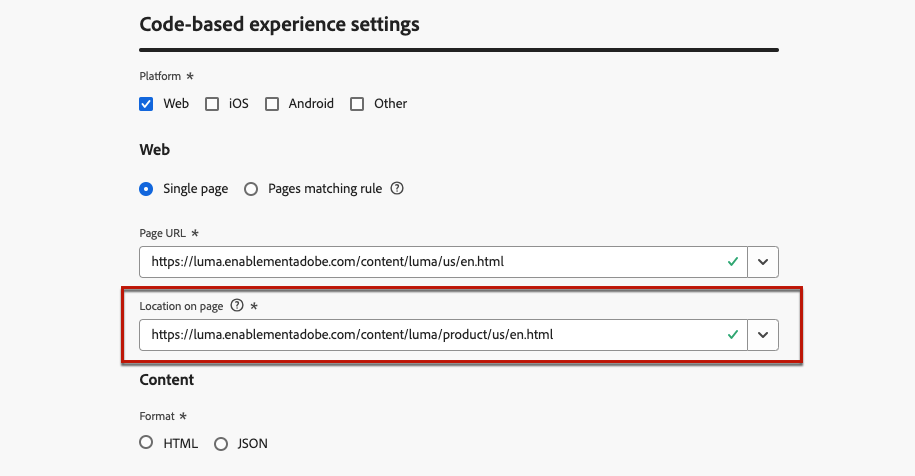
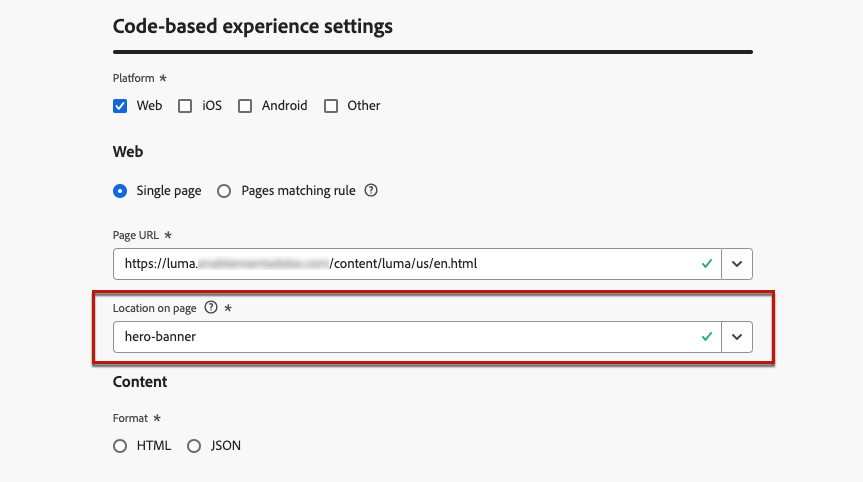
CBE config updates (#1750)
* CBE config PM feeback

DOCAC-11254

* Update code-based-implementation-samples.md

* Update code-based-configuration.md

diff --git a/help/using/code-based/code-based-implementation-samples.md b/help/using/code-based/code-based-implementation-samples.md
@@ -23,7 +23,7 @@ Code-based experience supports any type of customer implementation. On this page
 
 If you have a client-side implementation, you can use one of the AEP client SDKs: AEP Web SDK or AEP Mobile SDK.
 
-* The steps [below](#client-side-how) describe the process of fetching the content published on the edge by the code-based experience campaigns in a sample **Web SDK** implementation and displaying the personalized content.
+* The steps [below](#client-side-how) describe the process of fetching the content published on the edge by the code-based experience journeys and campaigns in a sample **Web SDK** implementation and displaying the personalized content.
 
 * The steps to implement code-based channel using **Mobile SDK** are described in [this tutorial](https://developer.adobe.com/client-sdks/edge/adobe-journey-optimizer/code-based/tutorial/){target="_blank"}.
 
@@ -48,7 +48,7 @@ If you have a client-side implementation, you can use one of the AEP client SDKs
 
 1. Code-based experience items should be manually applied by the implementation code (using the [`applyPersonalization`](https://github.com/adobe/alloy-samples/blob/ac83b6927d007dc456caad2c6ce0b324c99c26c9/ajo/personalization-client-side/public/script.js){target="_blank"} method) to update the DOM based on the decision.
 
-1. For code-based experience campaigns, display events must manually be sent to indicate when the content has been displayed. This is done via the `sendEvent` command.
+1. For code-based experience journeys and campaigns, display events must manually be sent to indicate when the content has been displayed. This is done via the `sendEvent` command.
 
     ```javascript
     function sendDisplayEvent(decision) {
@@ -74,7 +74,7 @@ If you have a client-side implementation, you can use one of the AEP client SDKs
     }
     ```
 
-1. For code-based experience campaigns, interaction events must manually be sent to indicate when a user has interacted with the content. This is done via the `sendEvent` command.
+1. For code-based experience journeys and campaigns, interaction events must manually be sent to indicate when a user has interacted with the content. This is done via the `sendEvent` command.
 
     ```javascript
     function sendInteractEvent(label, proposition) {
@@ -134,7 +134,7 @@ Requests to Adobe Experience Platform API are required to get propositions and s
 
 If you have a server-side implementation, you can use one the AEP Edge Network API.
 
-The steps below describe the process of fetching the content published on the edge by the code-based experience campaigns in a sample Edge Network API implementation for a webpage and displaying the personalized content.
+The steps below describe the process of fetching the content published on the edge by the code-based experience journeys and campaigns in a sample Edge Network API implementation for a webpage and displaying the personalized content.
 
 ### How it works
 
@@ -220,8 +220,9 @@ The steps below describe the process of fetching the content published on the ed
       ).then((res) => res.json());
       ```
 
-1. The JSON experience from the code based experience campaign is read from the response and used when producing the HTML response.
-1. For code-based experience campaigns, display events must manually be sent in the implementation to indicate when the campaign content has been displayed. In this example the notification is sent server-side during the request lifecycle.
+1. The JSON experience from the code-based experience journeys and campaign is read from the response and used when producing the HTML response.
+
+1. For code-based experience journeys and campaigns, display events must manually be sent in the implementation to indicate when the journey or campaign content has been displayed. In this example, the notification is sent server-side during the request lifecycle.
 
     ```javascript
     function sendDisplayEvent(aepEdgeClient, req, propositions, cookieEntries) {

diff --git a/help/using/code-based/code-based-configuration.md b/help/using/code-based/code-based-configuration.md
@@ -22,8 +22,8 @@ A code-based experience configuration must reference the surface, which is basic
 
 >[!CONTEXTUALHELP]
 >id="ajo_admin_location"
->title="Enter the specific location"
->abstract="This field specifies the exact destination on the page or within the app you want users to access. This could be a particular section or page deep within the navigation structure."
+>title="Indicate the specific location inside your page or app"
+>abstract="This field specifies the exact destination inside a page or within the app you want users to access. It can be a particular section inside a web page, or a page deep within the app's navigation structure."
 
 >[!CONTEXTUALHELP]
 >id="ajo_admin_default_mobile_url"
@@ -102,7 +102,7 @@ To define the code-based experience configuration settings for web platforms, fo
 
         ![](assets/code_config_matching_rules_preview.png)
 
-1. The **[!UICONTROL Location on page]** field specifies the exact destination within the website you want users to access. This could be a particular section or page deep within the site's navigation structure.
+1. The **[!UICONTROL Location on page]** field specifies the exact destination inside the page you want users to access. It can be a particular section on a page within the site's navigation structure, such as 'hero-banner' or 'product-rail'.
 
     ![](assets/code_config_location_on_page.png)
 
@@ -122,7 +122,7 @@ To define the code-based experience configuration settings for mobile platforms,
 
 1. Enter your **[!UICONTROL App id]**. This allows for accurate identification and configuration within the app's operational environment, and ensures seamless integration and functionality.
     
-1. Provide the **[!UICONTROL Location or path inside the app]**. This field specifies the exact destination within the app you want users to access. This could be a particular section or page deep within the app's navigation structure.
+1. Provide the **[!UICONTROL Location or path inside the app]**. This field specifies the exact destination within the app you want users to access. It can be a particular section or page deep within the app's navigation structure, such as 'hero-banner' or 'product-rail'.
 
     ![](assets/code_config_3.png){width="500"}
 
